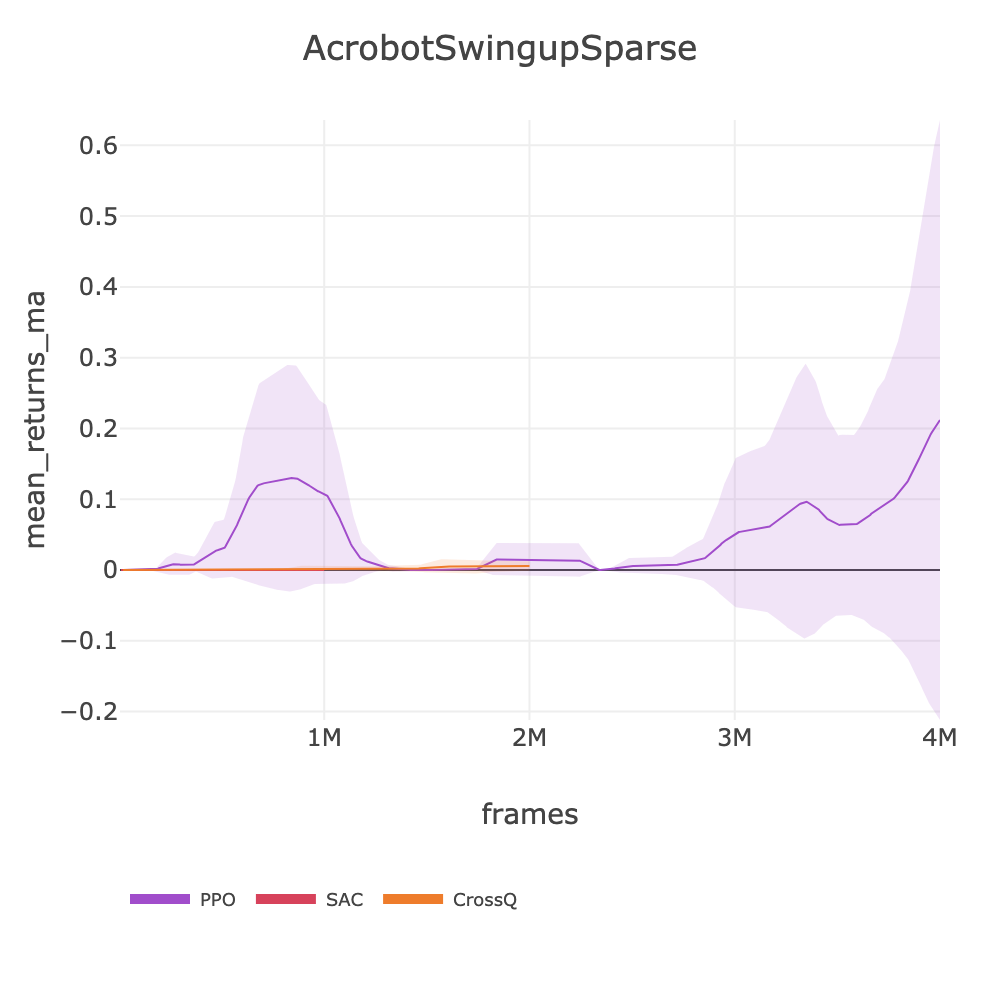
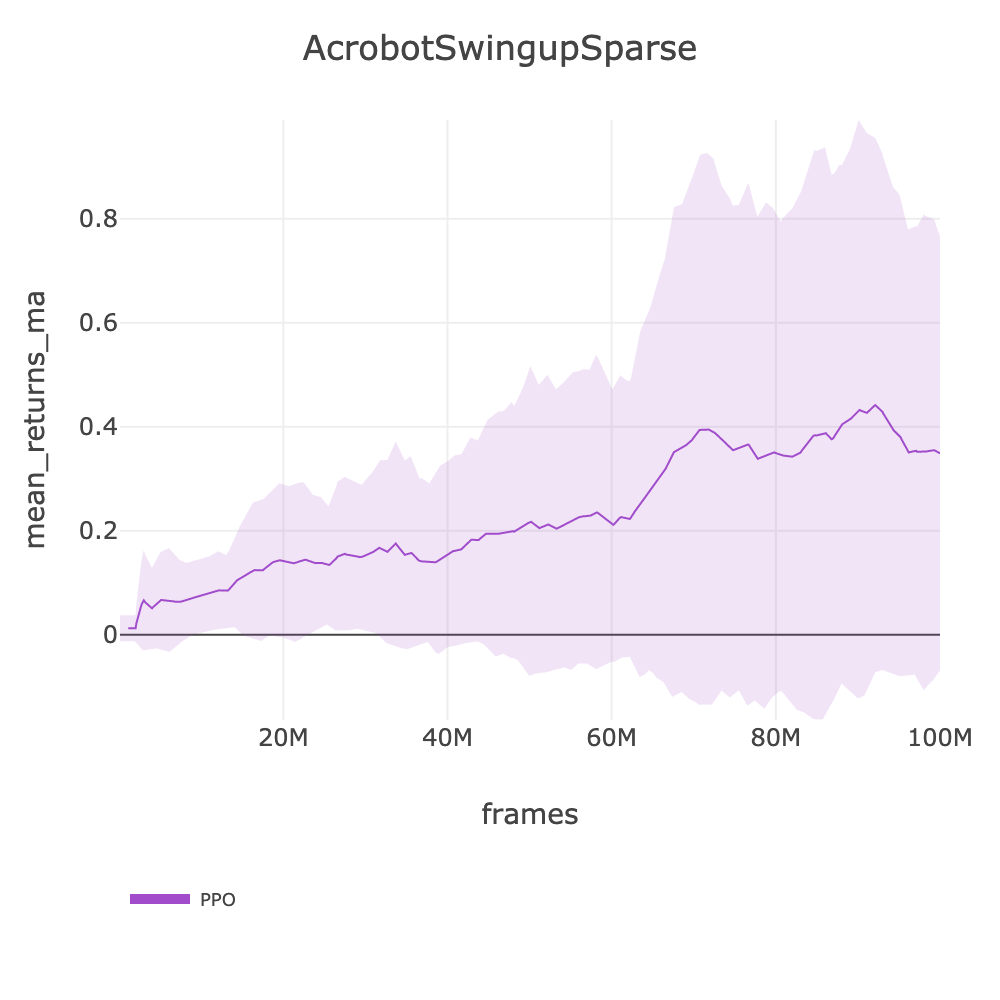
feat: intake HumanoidRun 3.81, HumanoidWalk 9.20, AcrobotSwingupSparse 0.35 — all ❌ vs targets

diff --git a/docs/BENCHMARKS.md b/docs/BENCHMARKS.md
@@ -894,7 +894,7 @@ source .env && uv run slm-lab run-remote --gpu \
 | playground/AcrobotSwingup | PPO | ❌ | 20.29 | ppo_playground | [ppo_playground_acrobotswingup_2026_03_11_142836](https://huggingface.co/datasets/SLM-Lab/benchmark-dev/tree/main/data/ppo_playground_acrobotswingup_2026_03_11_142836) | 220 | 12730 | 100M | 2h 11m |
 | | CrossQ | 🔄 | - | crossq_playground | - | | - | - | - |
 | | SAC | 🔄 | - | sac_playground_hard | - | | - | - | - |
-| playground/AcrobotSwingupSparse | PPO | 🔄 | - | ppo_playground | - | 15 | - | - | - |
+| playground/AcrobotSwingupSparse | PPO | ❌ | 0.35 | ppo_playground | [ppo_playground_acrobotswingupsparse_2026_03_11_160346](https://huggingface.co/datasets/SLM-Lab/benchmark-dev/tree/main/data/ppo_playground_acrobotswingupsparse_2026_03_11_160346) | 15 | 15610 | 100M | 1h 47m |
 | | CrossQ | 🔄 | - | crossq_playground | - | | - | - | - |
 | | SAC | 🔄 | - | sac_playground_hard | - | | - | - | - |
 | playground/BallInCup | PPO | ✅ | 718.66 | ppo_playground | [ppo_playground_ballincup_2026_03_11_124251](https://huggingface.co/datasets/SLM-Lab/benchmark-dev/tree/main/data/ppo_playground_ballincup_2026_03_11_124251) | ~0 (ref fails) | 15140 | 100M | 1h 50m |
@@ -933,13 +933,13 @@ source .env && uv run slm-lab run-remote --gpu \
 | playground/HopperStand | PPO | ❌ | 2.87 | ppo_playground | [ppo_playground_hopperstand_2026_03_11_095253](https://huggingface.co/datasets/SLM-Lab/benchmark-dev/tree/main/data/ppo_playground_hopperstand_2026_03_11_095253) | ~70 | 10750 | 100M | 2h 34m |
 | | CrossQ | 🔄 | - | crossq_playground | - | | - | - | - |
 | | SAC | 🔄 | - | sac_playground | - | | - | - | - |
-| playground/HumanoidRun | PPO | 🔄 | - | ppo_playground | - | 130 | - | - | - |
+| playground/HumanoidRun | PPO | ❌ | 3.81 | ppo_playground | [ppo_playground_humanoidrun_2026_03_11_152710](https://huggingface.co/datasets/SLM-Lab/benchmark-dev/tree/main/data/ppo_playground_humanoidrun_2026_03_11_152710) | 130 | 13900 | 100M | 2h 0m |
 | | CrossQ | 🔄 | - | crossq_playground_vhard | - | | - | - | - |
 | | SAC | 🔄 | - | sac_playground | - | | - | - | - |
 | playground/HumanoidStand | PPO | ❌ | 16.23 | ppo_playground_loco | [ppo_playground_loco_humanoidstand_2026_03_11_152703](https://huggingface.co/datasets/SLM-Lab/benchmark-dev/tree/main/data/ppo_playground_loco_humanoidstand_2026_03_11_152703) | 700 | 15610 | 100M | 1h 47m |
 | | CrossQ | 🔄 | - | crossq_playground_vhard | - | | - | - | - |
 | | SAC | 🔄 | - | sac_playground | - | | - | - | - |
-| playground/HumanoidWalk | PPO | 🔄 | - | ppo_playground | - | 500 | - | - | - |
+| playground/HumanoidWalk | PPO | ❌ | 9.20 | ppo_playground | [ppo_playground_humanoidwalk_2026_03_11_152704](https://huggingface.co/datasets/SLM-Lab/benchmark-dev/tree/main/data/ppo_playground_humanoidwalk_2026_03_11_152704) | 500 | 11570 | 100M | 2h 24m |
 | | CrossQ | 🔄 | - | crossq_playground_vhard | - | | - | - | - |
 | | SAC | 🔄 | - | sac_playground | - | | - | - | - |
 | playground/PendulumSwingup | PPO | ✅ | 395.31 | ppo_playground | [ppo_playground_pendulumswingup_2026_03_11_142901](https://huggingface.co/datasets/SLM-Lab/benchmark-dev/tree/main/data/ppo_playground_pendulumswingup_2026_03_11_142901) | ~70 | 12080 | 100M | 2h 18m |
